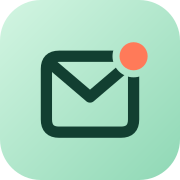
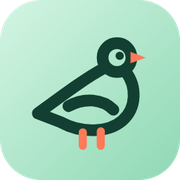
web pidgoo.com

Changed region(s): [[0.1667, 0.1944, 0.8333, 0.8333]]

diff --git a/index.html b/index.html
@@ -4,11 +4,11 @@
 <meta charset="utf-8">
 <meta name="viewport" content="width=device-width, initial-scale=1, viewport-fit=cover">
 <meta name="color-scheme" content="light dark">
-<meta property="og:title" content="mailoo">
+<meta property="og:title" content="pidgoo">
 <meta property="og:description" content="Rychlý a přehledný e-mailový klient pro Windows a Mac.">
-<meta property="og:image" content="https://mailooapp.com/img/app-light.webp">
-<title>mailoo</title>
-<meta name="description" content="mailoo – rychlý a přehledný e-mailový klient pro Windows a Mac. Data šifrovaná AES-256, žádná AI, žádné sledování.">
+<meta property="og:image" content="https://pidgoo.com/img/app-light.webp">
+<title>pidgoo</title>
+<meta name="description" content="pidgoo – rychlý a přehledný e-mailový klient pro Windows a Mac. Data šifrovaná AES-256, žádná AI, žádné sledování.">
 <link rel="icon" href="icon.svg" type="image/svg+xml">
 <link rel="apple-touch-icon" href="icon-180.png">
 <style>
@@ -188,7 +188,7 @@ footer a:hover { color: var(--ink); }
 
 <header class="nav">
   <div class="wrap">
-    <a class="logo" href="#top" aria-label="mailoo"><img src="icon.svg" alt="" width="32" height="32"><svg aria-hidden="true" style="color:var(--ink)" xmlns="http://www.w3.org/2000/svg" viewBox="0 0 295 104"><g transform="translate(2,90)"><g fill="currentColor"><path transform="translate(0.00,0) scale(0.09600,-0.09600)" d="M57.5 0V483H189V0ZM372.5 0V285Q372.5 327.25 346.25 350.75Q320 374.25 281.25 374.25Q254.75 374.25 234.0 363.625Q213.25 353 201.125 333.125Q189 313.25 189 285L137.75 310Q137.75 366.25 162.375 407.0Q187 447.75 229.0 470.375Q271 493 323.5 493Q374.25 493 415.125 470.5Q456 448 480.0 407.375Q504 366.75 504 310.25V0ZM687.5 0V285Q687.5 327.25 661.25 350.75Q635 374.25 596.25 374.25Q570.5 374.25 549.375 363.625Q528.25 353 516.125 333.125Q504 313.25 504 285L428.75 302.75Q432.5 361.25 459.625 403.625Q486.75 446 530.875 469.5Q575 493 629 493Q682.75 493 725.625 470.25Q768.5 447.5 793.75 405.75Q819 364 819 305.5V0Z"/><path transform="translate(81.73,0) scale(0.09600,-0.09600)" d="M259.5 -10Q193.5 -10 140.875 23.0Q88.25 56 57.875 112.75Q27.5 169.5 27.5 240.75Q27.5 312.75 57.875 369.625Q88.25 426.5 140.875 459.75Q193.5 493 259.5 493Q311.5 493 352.5 471.75Q393.5 450.5 418.375 413.25Q443.25 376 445 328.5V154.5Q443.25 107 418.75 69.75Q394.25 32.5 352.875 11.25Q311.5 -10 259.5 -10ZM284 111Q339 111 372.75 147.625Q406.5 184.25 406.5 241.5Q406.5 280 391.25 309.375Q376 338.75 348.5 355.375Q321 372 284.25 372Q248.25 372 220.75 355.375Q193.25 338.75 177.375 309.25Q161.5 279.75 161.5 241.5Q161.5 203.25 177.25 173.75Q193 144.25 220.625 127.625Q248.25 111 284 111ZM399.75 0V129.75L420.75 247.5L399.75 364.25V483H530V0Z"/><path transform="translate(136.68,0) scale(0.09600,-0.09600)" d="M57.5 0V483H189V0Z"/><path transform="translate(158.89,0) scale(0.09600,-0.09600)" d="M57.5 0V723H189V0Z"/><path transform="translate(181.10,0) scale(0.09600,-0.09600)" d="M284.5 -10.5Q211.75 -10.5 153.125 23.0Q94.5 56.5 60.25 114.0Q26 171.5 26 242.5Q26 313.5 60.125 370.0Q94.25 426.5 152.875 460.0Q211.5 493.5 284.25 493.5Q357.75 493.5 416.25 460.375Q474.75 427.25 509.0 370.375Q543.25 313.5 543.25 242.5Q543.25 171.5 509.125 114.0Q475 56.5 416.5 23.0Q358 -10.5 284.5 -10.5ZM284.25 112Q321.25 112 349.5 128.5Q377.75 145 393.375 174.625Q409 204.25 409 242.25Q409 280.25 392.875 309.125Q376.75 338 349.0 354.5Q321.25 371 284.25 371Q248.25 371 220.0 354.375Q191.75 337.75 176.0 308.875Q160.25 280 160.25 242Q160.25 204.25 176.0 174.625Q191.75 145 220.0 128.5Q248.25 112 284.25 112Z"/><path transform="translate(234.23,0) scale(0.09600,-0.09600)" d="M284.5 -10.5Q211.75 -10.5 153.125 23.0Q94.5 56.5 60.25 114.0Q26 171.5 26 242.5Q26 313.5 60.125 370.0Q94.25 426.5 152.875 460.0Q211.5 493.5 284.25 493.5Q357.75 493.5 416.25 460.375Q474.75 427.25 509.0 370.375Q543.25 313.5 543.25 242.5Q543.25 171.5 509.125 114.0Q475 56.5 416.5 23.0Q358 -10.5 284.5 -10.5ZM284.25 112Q321.25 112 349.5 128.5Q377.75 145 393.375 174.625Q409 204.25 409 242.25Q409 280.25 392.875 309.125Q376.75 338 349.0 354.5Q321.25 371 284.25 371Q248.25 371 220.0 354.375Q191.75 337.75 176.0 308.875Q160.25 280 160.25 242Q160.25 204.25 176.0 174.625Q191.75 145 220.0 128.5Q248.25 112 284.25 112Z"/></g><circle cx="148.51" cy="-59.50" r="7.83" fill="#FF7A59"/></g></svg></a>
+    <a class="logo" href="#top" aria-label="pidgoo"><img src="icon.svg" alt="" width="32" height="32"><svg aria-hidden="true" style="color:var(--ink)" xmlns="http://www.w3.org/2000/svg" viewBox="0 0 300 104"><g transform="translate(2,78)"><g fill="currentColor"><path transform="translate(0.00,0) scale(0.09600,-0.09600)" d="M326 -10Q273.75 -10 231.75 11.25Q189.75 32.5 164.625 69.75Q139.5 107 137.5 154.5V326Q139.5 373.5 165.0 411.375Q190.5 449.25 232.4746376811594 471.125Q274.4492753623188 493 326 493Q393 493 446.0 459.75Q499 426.5 529.5 369.625Q560 312.75 560 240.75Q560 169.5 529.5 112.75Q499 56 446.0 23.0Q393 -10 326 -10ZM57.5 -202.5V483H189V356.11547085201795L166.75 238.5L187.75 121.5V-202.5ZM303.1418269230769 111Q339.34375 111 366.921875 127.625Q394.5 144.25 410.25 173.76712328767124Q426 203.28424657534248 426 241.59246575342465Q426 280 410.25 309.375Q394.5 338.75 366.9830097087379 355.375Q339.4660194174757 372 303.4830097087379 372Q267.5 372 239.6268115942029 355.4546703296703Q211.7536231884058 338.90934065934067 196.3768115942029 309.46153846153845Q181 280.0137362637363 181 241.53296703296704Q181 203.25 196.25 173.75Q211.5 144.25 239.375 127.625Q267.25 111 303.1418269230769 111Z"/><path transform="translate(54.95,0) scale(0.09600,-0.09600)" d="M57.5 0V483H189V0Z"/><path transform="translate(77.16,0) scale(0.09600,-0.09600)" d="M261.5 -10Q194.5 -10 141.53911042944785 22.980263157894736Q88.5782208588957 55.96052631578947 58.03911042944785 112.73026315789474Q27.5 169.5 27.5 240.90853658536585Q27.5 313.0914634146341 58.0 369.79573170731703Q88.5 426.5 141.35576923076923 459.75Q194.21153846153845 493 261.5 493Q313.75 493 355.375 471.75Q397 450.5 422.625 413.25Q448.25 376 450 328.5V157Q448.25 109.5 423.0 71.625Q397.75 33.75 355.75 11.875Q313.75 -10 261.5 -10ZM284 111Q321 111 348.28952205882354 127.62332214765101Q375.5790441176471 144.24664429530202 391.03952205882354 173.623322147651Q406.5 203 406.5 241.5Q406.5 280.29009433962267 391.0923913043478 309.4492924528302Q375.6847826086956 338.60849056603774 348.3423913043478 355.3042452830189Q321 372 284.625 372Q248.25 372 220.8080985915493 355.2381516587678Q193.3661971830986 338.47630331753555 177.4330985915493 309.07582938388623Q161.5 279.67535545023696 161.5 241.5Q161.5 203.25 177.189039408867 173.78Q192.87807881773398 144.31 220.74137931034483 127.655Q248.60467980295567 111 284 111ZM530 0H399.75V129.75L420.75 247.5L398.5 364.25V723H530Z"/><path transform="translate(132.11,0) scale(0.09600,-0.09600)" d="M260.25 -214Q182.5 -214 123.75 -186.5Q65 -159 30 -109L113 -26.25Q140.5 -59.5 175.25 -76.625Q210 -93.75 259 -93.75Q319.75 -93.75 355.125 -62.875Q390.5 -32 390.5 22.5V143.5L412.75 249.5L391.75 356V483H522V24.5Q522 -47.5 488.5 -100.875Q455 -154.25 396.0 -184.125Q337 -214 260.25 -214ZM254.25 12.5Q189 12.5 137.125 44.125Q85.25 75.75 55.625 130.75Q26 185.75 26 253.5Q26 321.5 55.625 375.625Q85.25 429.75 137.125 461.375Q189 493 254.25 493Q307.75 493 349.125 472.125Q390.5 451.25 414.625 414.375Q438.75 377.5 440.5 328.5V177Q438.75 128.75 414.25 91.5Q389.75 54.25 348.375 33.375Q307 12.5 254.25 12.5ZM279.75 132.25Q315.75 132.25 342.5 147.75Q369.25 163.25 383.875 190.375Q398.5 217.5 398.5 253Q398.5 288.5 383.875 315.625Q369.25 342.75 342.625 358.25Q316 373.75 280 373.75Q244.25 373.75 217.125 358.25Q190 342.75 175.0 315.5Q160 288.25 160 253Q160 218.75 175.0 191.125Q190 163.5 217.0 147.875Q244 132.25 279.75 132.25Z"/><path transform="translate(186.19,0) scale(0.09600,-0.09600)" d="M284.5 -10.5Q211.75 -10.5 153.125 23.0Q94.5 56.5 60.25 114.0Q26 171.5 26 242.5Q26 313.5 60.125 370.0Q94.25 426.5 152.875 460.0Q211.5 493.5 284.25 493.5Q357.75 493.5 416.25 460.375Q474.75 427.25 509.0 370.375Q543.25 313.5 543.25 242.5Q543.25 171.5 509.125 114.0Q475 56.5 416.5 23.0Q358 -10.5 284.5 -10.5ZM284.25 112Q321.25 112 349.5 128.5Q377.75 145 393.375 174.625Q409 204.25 409 242.25Q409 280.25 392.875 309.125Q376.75 338 349.0 354.5Q321.25 371 284.25 371Q248.25 371 220.0 354.375Q191.75 337.75 176.0 308.875Q160.25 280 160.25 242Q160.25 204.25 176.0 174.625Q191.75 145 220.0 128.5Q248.25 112 284.25 112Z"/><path transform="translate(239.32,0) scale(0.09600,-0.09600)" d="M284.5 -10.5Q211.75 -10.5 153.125 23.0Q94.5 56.5 60.25 114.0Q26 171.5 26 242.5Q26 313.5 60.125 370.0Q94.25 426.5 152.875 460.0Q211.5 493.5 284.25 493.5Q357.75 493.5 416.25 460.375Q474.75 427.25 509.0 370.375Q543.25 313.5 543.25 242.5Q543.25 171.5 509.125 114.0Q475 56.5 416.5 23.0Q358 -10.5 284.5 -10.5ZM284.25 112Q321.25 112 349.5 128.5Q377.75 145 393.375 174.625Q409 204.25 409 242.25Q409 280.25 392.875 309.125Q376.75 338 349.0 354.5Q321.25 371 284.25 371Q248.25 371 220.0 354.375Q191.75 337.75 176.0 308.875Q160.25 280 160.25 242Q160.25 204.25 176.0 174.625Q191.75 145 220.0 128.5Q248.25 112 284.25 112Z"/></g><circle cx="66.78" cy="-59.50" r="7.83" fill="#FF7A59"/></g></svg></a>
     <nav class="nav-links" aria-label="Sekce">
       <a href="#funkce" data-i18n="nav.features">Funkce</a>
       <a href="#bezpecnost" data-i18n="nav.security">Bezpečnost</a>
@@ -226,10 +226,10 @@ footer a:hover { color: var(--ink); }
   <div class="stage">
     <div class="wrap">
       <figure class="shot" style="margin:0">
-        <img class="light" src="app-light.webp" width="1440" height="900" alt="mailoo – doručená pošta rozdělená na Důležité, Notifikace a Newslettery, vpravo otevřený e-mail s přílohami a rychlými odpověďmi" data-i18n-alt="shot.alt">
-        <img class="dark" src="app-dark.webp" width="1440" height="900" alt="mailoo v tmavém režimu" data-i18n-alt="shot.altDark">
+        <img class="light" src="app-light.webp" width="1440" height="900" alt="pidgoo – doručená pošta rozdělená na Důležité, Notifikace a Newslettery, vpravo otevřený e-mail s přílohami a rychlými odpověďmi" data-i18n-alt="shot.alt">
+        <img class="dark" src="app-dark.webp" width="1440" height="900" alt="pidgoo v tmavém režimu" data-i18n-alt="shot.altDark">
       </figure>
-      <p class="caption" data-i18n="shot.caption">Skutečný snímek mailoo 1.9 · světlý i tmavý režim podle systému</p>
+      <p class="caption" data-i18n="shot.caption">Skutečný snímek pidgoo · světlý i tmavý režim podle systému</p>
     </div>
   </div>
 
@@ -242,7 +242,7 @@ footer a:hover { color: var(--ink); }
       <div class="features">
         <article class="feat"><span class="ic"><svg viewBox="0 0 24 24" fill="none" stroke="currentColor" stroke-width="1.8" stroke-linecap="round" stroke-linejoin="round" aria-hidden="true"><path d="M22 12h-6l-2 3h-4l-2-3H2"/><path d="M5.45 5.11 2 12v6a2 2 0 0 0 2 2h16a2 2 0 0 0 2-2v-6l-3.45-6.89A2 2 0 0 0 16.76 4H7.24a2 2 0 0 0-1.79 1.11z"/></svg></span><h3 data-i18n="f1.t">Rozdělená schránka</h3><p data-i18n="f1.d">Důležité e-maily zvlášť, notifikace a newslettery ve vlastních záložkách. Nic podstatného nezapadne.</p></article>
         <article class="feat"><span class="ic"><svg viewBox="0 0 24 24" fill="none" stroke="currentColor" stroke-width="1.8" stroke-linecap="round" stroke-linejoin="round" aria-hidden="true"><path d="M13 2 3 14h9l-1 8 10-12h-9l1-8z"/></svg></span><h3 data-i18n="f2.t">Rychlé odpovědi</h3><p data-i18n-html="f2.d">Tlačítka pod e-mailem a šablony na zkratku – napište <kbd>/diky</kbd> a text se doplní sám.</p></article>
-        <article class="feat"><span class="ic"><svg viewBox="0 0 24 24" fill="none" stroke="currentColor" stroke-width="1.8" stroke-linecap="round" stroke-linejoin="round" aria-hidden="true"><path d="M6 2h12M6 22h12M7 2v4.2a4 4 0 0 0 1.4 3l3.6 2.8-3.6 2.8a4 4 0 0 0-1.4 3V22M17 2v4.2a4 4 0 0 1-1.4 3L12 12l3.6 2.8a4 4 0 0 1 1.4 3V22"/></svg></span><h3 data-i18n="f3.t">Čekám na odpověď</h3><p data-i18n="f3.d">Označte odeslanou zprávu a mailoo vám připomene, když se nikdo neozve.</p></article>
+        <article class="feat"><span class="ic"><svg viewBox="0 0 24 24" fill="none" stroke="currentColor" stroke-width="1.8" stroke-linecap="round" stroke-linejoin="round" aria-hidden="true"><path d="M6 2h12M6 22h12M7 2v4.2a4 4 0 0 0 1.4 3l3.6 2.8-3.6 2.8a4 4 0 0 0-1.4 3V22M17 2v4.2a4 4 0 0 1-1.4 3L12 12l3.6 2.8a4 4 0 0 1 1.4 3V22"/></svg></span><h3 data-i18n="f3.t">Čekám na odpověď</h3><p data-i18n="f3.d">Označte odeslanou zprávu a pidgoo vám připomene, když se nikdo neozve.</p></article>
         <article class="feat"><span class="ic"><svg viewBox="0 0 24 24" fill="none" stroke="currentColor" stroke-width="1.8" stroke-linecap="round" stroke-linejoin="round" aria-hidden="true"><circle cx="12" cy="12" r="9"/><path d="M12 7v5l3 2"/></svg></span><h3 data-i18n="f4.t">Odložit na později</h3><p data-i18n="f4.d">E-mail zmizí ze schránky a vrátí se přesně ve chvíli, kdy na něj budete mít čas.</p></article>
         <article class="feat"><span class="ic"><svg viewBox="0 0 24 24" fill="none" stroke="currentColor" stroke-width="1.8" stroke-linecap="round" stroke-linejoin="round" aria-hidden="true"><path d="m9 11 3 3L22 4"/><path d="M21 12v7a2 2 0 0 1-2 2H5a2 2 0 0 1-2-2V5a2 2 0 0 1 2-2h11"/></svg></span><h3 data-i18n="f5.t">Úkoly z e-mailů</h3><p data-i18n-html="f5.d">Z e-mailu úkol jedním stiskem <kbd>Shift</kbd>+<kbd>T</kbd>. Termín stačí napsat: „zítra v 10“, „každé pondělí“.</p></article>
         <article class="feat"><span class="ic"><svg viewBox="0 0 24 24" fill="none" stroke="currentColor" stroke-width="1.8" stroke-linecap="round" stroke-linejoin="round" aria-hidden="true"><path d="M4 22h16a2 2 0 0 0 2-2V4a2 2 0 0 0-2-2H8a2 2 0 0 0-2 2v16a2 2 0 0 1-2 2Zm0 0a2 2 0 0 1-2-2v-9c0-1.1.9-2 2-2h2"/><path d="M18 14h-8M15 18h-5M10 6h8v4h-8z"/></svg></span><h3 data-i18n="f6.t">Odhlášení jedním klikem</h3><p data-i18n="f6.d">Nechtěné newslettery zrušíte přímo z e-mailu a staré zprávy od nich rovnou smažete.</p></article>
@@ -258,17 +258,17 @@ footer a:hover { color: var(--ink); }
     <div class="wrap">
       <div class="sec-head">
         <div><span class="eyebrow" data-i18n="sec.eyebrow">Bezpečnost a soukromí</span><h2 data-i18n="sec.title">Vaše pošta zůstává vaše.</h2></div>
-        <p data-i18n="sec.lead">mailoo nemá žádný server, přes který by vaše pošta šla. Připojuje se rovnou k vašemu poštovnímu serveru a v počítači ukládá jen to nutné – zašifrované.</p>
+        <p data-i18n="sec.lead">pidgoo nemá žádný server, přes který by vaše pošta šla. Připojuje se rovnou k vašemu poštovnímu serveru a v počítači ukládá jen to nutné – zašifrované.</p>
       </div>
       <div class="sec-grid">
         <div class="promises">
-          <div class="promise"><svg viewBox="0 0 24 24" fill="none" stroke="currentColor" stroke-width="1.8" stroke-linecap="round" stroke-linejoin="round" aria-hidden="true"><circle cx="7.5" cy="15.5" r="4.5"/><path d="m10.7 12.3 9.8-9.8M16 7l3 3M19 4l2 2"/></svg><div><b data-i18n="p1.t">Heslo je klíč k datům</b><span data-i18n="p1.d">Účty, hesla, kontakty i úkoly jsou v jednom souboru šifrovaném AES-256. S heslem k mailoo je nepřečte nikdo – ani po vyjmutí disku.</span></div></div>
-          <div class="promise"><svg viewBox="0 0 24 24" fill="none" stroke="currentColor" stroke-width="1.8" stroke-linecap="round" stroke-linejoin="round" aria-hidden="true"><rect x="2" y="4" width="20" height="16" rx="2"/><path d="m22 7-10 6L2 7"/></svg><div><b data-i18n="p2.t">E-maily zůstávají na serveru</b><span data-i18n="p2.d">mailoo si poštu nestahuje do počítače. Obrázky z internetu se načtou až po vašem svolení, takže vás odesílatelé nesledují.</span></div></div>
-          <div class="promise"><svg viewBox="0 0 24 24" fill="none" stroke="currentColor" stroke-width="1.8" stroke-linecap="round" stroke-linejoin="round" aria-hidden="true"><path d="M2 12s3.5-7 10-7 10 7 10 7-3.5 7-10 7S2 12 2 12Z"/><circle cx="12" cy="12" r="3"/></svg><div><b data-i18n="p3.t">Žádná AI, žádná analytika</b><span data-i18n="p3.d">Vaše e-maily nikdo nečte, netrénuje na nich a nikam je neposílá. mailoo neodesílá ani statistiky používání.</span></div></div>
-          <div class="promise"><svg viewBox="0 0 24 24" fill="none" stroke="currentColor" stroke-width="1.8" stroke-linecap="round" stroke-linejoin="round" aria-hidden="true"><circle cx="12" cy="12" r="10"/><path d="M12 8v4M12 16h.01"/></svg><div><b data-i18n="p4.t">Škodlivé přílohy neprojdou</b><span data-i18n="p4.d">Programy a skripty převlečené za dokumenty mailoo neotevře a každá příloha dostane značku „staženo z internetu“.</span></div></div>
+          <div class="promise"><svg viewBox="0 0 24 24" fill="none" stroke="currentColor" stroke-width="1.8" stroke-linecap="round" stroke-linejoin="round" aria-hidden="true"><circle cx="7.5" cy="15.5" r="4.5"/><path d="m10.7 12.3 9.8-9.8M16 7l3 3M19 4l2 2"/></svg><div><b data-i18n="p1.t">Heslo je klíč k datům</b><span data-i18n="p1.d">Účty, hesla, kontakty i úkoly jsou v jednom souboru šifrovaném AES-256. S heslem k pidgoo je nepřečte nikdo – ani po vyjmutí disku.</span></div></div>
+          <div class="promise"><svg viewBox="0 0 24 24" fill="none" stroke="currentColor" stroke-width="1.8" stroke-linecap="round" stroke-linejoin="round" aria-hidden="true"><rect x="2" y="4" width="20" height="16" rx="2"/><path d="m22 7-10 6L2 7"/></svg><div><b data-i18n="p2.t">E-maily zůstávají na serveru</b><span data-i18n="p2.d">pidgoo si poštu nestahuje do počítače. Obrázky z internetu se načtou až po vašem svolení, takže vás odesílatelé nesledují.</span></div></div>
+          <div class="promise"><svg viewBox="0 0 24 24" fill="none" stroke="currentColor" stroke-width="1.8" stroke-linecap="round" stroke-linejoin="round" aria-hidden="true"><path d="M2 12s3.5-7 10-7 10 7 10 7-3.5 7-10 7S2 12 2 12Z"/><circle cx="12" cy="12" r="3"/></svg><div><b data-i18n="p3.t">Žádná AI, žádná analytika</b><span data-i18n="p3.d">Vaše e-maily nikdo nečte, netrénuje na nich a nikam je neposílá. pidgoo neodesílá ani statistiky používání.</span></div></div>
+          <div class="promise"><svg viewBox="0 0 24 24" fill="none" stroke="currentColor" stroke-width="1.8" stroke-linecap="round" stroke-linejoin="round" aria-hidden="true"><circle cx="12" cy="12" r="10"/><path d="M12 8v4M12 16h.01"/></svg><div><b data-i18n="p4.t">Škodlivé přílohy neprojdou</b><span data-i18n="p4.d">Programy a skripty převlečené za dokumenty pidgoo neotevře a každá příloha dostane značku „staženo z internetu“.</span></div></div>
         </div>
         <div>
-          <pre class="spec" aria-label="Technické parametry" data-i18n-html="spec"><span class="c"># mailoo-vault.json</span>
+          <pre class="spec" aria-label="Technické parametry" data-i18n-html="spec"><span class="c"># pidgoo-vault.json</span>
 <span class="k">cipher</span>      AES-256-GCM
 <span class="k">key</span>         scrypt · N=2<sup>17</sup> · 128 MB <span class="c">/ pokus</span>
 <span class="k">device</span>      <span class="d">DPAPI</span> · <span class="d">Klíčenka macOS</span>
@@ -287,17 +287,17 @@ footer a:hover { color: var(--ink); }
     <div class="wrap">
       <div class="sec-head">
         <div><span class="eyebrow" data-i18n="dl.eyebrow">Stáhnout</span><h2 data-i18n="dl.title">Nainstalované za minutu.</h2></div>
-        <p data-i18n="dl.lead">Klasický instalátor pro Windows i Mac. mailoo je zdarma, bez reklam a bez registrace – po spuštění jen přidáte svůj e-mail.</p>
+        <p data-i18n="dl.lead">Klasický instalátor pro Windows i Mac. pidgoo je zdarma, bez reklam a bez registrace – po spuštění jen přidáte svůj e-mail.</p>
       </div>
       <div class="platforms">
         <article class="plat" id="plat-win">
           <div class="plat-head"><svg viewBox="0 0 24 24" fill="none" stroke="currentColor" stroke-width="1.8" stroke-linecap="round" stroke-linejoin="round" aria-hidden="true"><rect x="2.5" y="3.5" width="19" height="13" rx="2"/><path d="M8 20.5h8M12 16.5v4"/></svg><h3>Windows</h3><span class="tag" data-i18n="dl.yours" hidden>Váš systém</span></div>
           <div class="btn-row"><a class="btn" data-file="win" href="#"><svg viewBox="0 0 24 24" fill="none" stroke="currentColor" stroke-width="1.8" stroke-linecap="round" stroke-linejoin="round" aria-hidden="true"><path d="M21 15v4a2 2 0 0 1-2 2H5a2 2 0 0 1-2-2v-4"/><path d="m7 10 5 5 5-5"/><path d="M12 15V3"/></svg><span data-i18n="dl.win">Stáhnout instalátor</span></a></div>
-          <div class="meta" id="meta-win">mailoo-setup.exe · 108 MB · Windows 10 / 11 (64 bit)</div>
+          <div class="meta" id="meta-win">pidgoo-setup.exe · 108 MB · Windows 10 / 11 (64 bit)</div>
           <ol class="steps">
-            <li data-i18n="w1">Otevřete stažený soubor mailoo-setup.exe.</li>
-            <li data-i18n="w2">Průvodce se zeptá, kam mailoo nainstalovat – stačí nechat výchozí složku.</li>
-            <li data-i18n="w3">Po dokončení mailoo najdete v nabídce Start (a volitelně na ploše).</li>
+            <li data-i18n="w1">Otevřete stažený soubor pidgoo-setup.exe.</li>
+            <li data-i18n="w2">Průvodce se zeptá, kam pidgoo nainstalovat – stačí nechat výchozí složku.</li>
+            <li data-i18n="w3">Po dokončení pidgoo najdete v nabídce Start (a volitelně na ploše).</li>
           </ol>
         </article>
         <article class="plat" id="plat-mac">
@@ -306,11 +306,11 @@ footer a:hover { color: var(--ink); }
             <a class="btn" data-file="mac-arm" href="#"><svg viewBox="0 0 24 24" fill="none" stroke="currentColor" stroke-width="1.8" stroke-linecap="round" stroke-linejoin="round" aria-hidden="true"><path d="M21 15v4a2 2 0 0 1-2 2H5a2 2 0 0 1-2-2v-4"/><path d="m7 10 5 5 5-5"/><path d="M12 15V3"/></svg><span data-i18n="dl.macArm">Apple Silicon</span></a>
             <a class="btn ghost" data-file="mac-intel" href="#"><svg viewBox="0 0 24 24" fill="none" stroke="currentColor" stroke-width="1.8" stroke-linecap="round" stroke-linejoin="round" aria-hidden="true"><path d="M21 15v4a2 2 0 0 1-2 2H5a2 2 0 0 1-2-2v-4"/><path d="m7 10 5 5 5-5"/><path d="M12 15V3"/></svg><span data-i18n="dl.macIntel">Intel</span></a>
           </div>
-          <div class="meta" id="meta-mac">mailoo.dmg · 126 MB · M1–M4 / Intel · macOS 13+</div>
+          <div class="meta" id="meta-mac">pidgoo.dmg · 126 MB · M1–M4 / Intel · macOS 13+</div>
           <ol class="steps">
-            <li data-i18n="m1">Otevřete stažený soubor mailoo.dmg.</li>
-            <li data-i18n="m2">V okně přetáhněte ikonu mailoo do složky Aplikace.</li>
-            <li data-i18n="m3">Spusťte mailoo z Launchpadu nebo ze složky Aplikace.</li>
+            <li data-i18n="m1">Otevřete stažený soubor pidgoo.dmg.</li>
+            <li data-i18n="m2">V okně přetáhněte ikonu pidgoo do složky Aplikace.</li>
+            <li data-i18n="m3">Spusťte pidgoo z Launchpadu nebo ze složky Aplikace.</li>
           </ol>
           <p class="note" data-i18n="dl.whichMac">Nevíte, jaký máte Mac? V menu Apple → O tomto Macu najdete řádek „Čip“ (Apple M…) nebo „Procesor“ (Intel).</p>
         </article>
@@ -321,7 +321,7 @@ footer a:hover { color: var(--ink); }
 
 <footer>
   <div class="wrap">
-    <a class="logo" href="#top" aria-label="mailoo"><svg aria-hidden="true" style="color:var(--ink)" xmlns="http://www.w3.org/2000/svg" viewBox="0 0 295 104"><g transform="translate(2,90)"><g fill="currentColor"><path transform="translate(0.00,0) scale(0.09600,-0.09600)" d="M57.5 0V483H189V0ZM372.5 0V285Q372.5 327.25 346.25 350.75Q320 374.25 281.25 374.25Q254.75 374.25 234.0 363.625Q213.25 353 201.125 333.125Q189 313.25 189 285L137.75 310Q137.75 366.25 162.375 407.0Q187 447.75 229.0 470.375Q271 493 323.5 493Q374.25 493 415.125 470.5Q456 448 480.0 407.375Q504 366.75 504 310.25V0ZM687.5 0V285Q687.5 327.25 661.25 350.75Q635 374.25 596.25 374.25Q570.5 374.25 549.375 363.625Q528.25 353 516.125 333.125Q504 313.25 504 285L428.75 302.75Q432.5 361.25 459.625 403.625Q486.75 446 530.875 469.5Q575 493 629 493Q682.75 493 725.625 470.25Q768.5 447.5 793.75 405.75Q819 364 819 305.5V0Z"/><path transform="translate(81.73,0) scale(0.09600,-0.09600)" d="M259.5 -10Q193.5 -10 140.875 23.0Q88.25 56 57.875 112.75Q27.5 169.5 27.5 240.75Q27.5 312.75 57.875 369.625Q88.25 426.5 140.875 459.75Q193.5 493 259.5 493Q311.5 493 352.5 471.75Q393.5 450.5 418.375 413.25Q443.25 376 445 328.5V154.5Q443.25 107 418.75 69.75Q394.25 32.5 352.875 11.25Q311.5 -10 259.5 -10ZM284 111Q339 111 372.75 147.625Q406.5 184.25 406.5 241.5Q406.5 280 391.25 309.375Q376 338.75 348.5 355.375Q321 372 284.25 372Q248.25 372 220.75 355.375Q193.25 338.75 177.375 309.25Q161.5 279.75 161.5 241.5Q161.5 203.25 177.25 173.75Q193 144.25 220.625 127.625Q248.25 111 284 111ZM399.75 0V129.75L420.75 247.5L399.75 364.25V483H530V0Z"/><path transform="translate(136.68,0) scale(0.09600,-0.09600)" d="M57.5 0V483H189V0Z"/><path transform="translate(158.89,0) scale(0.09600,-0.09600)" d="M57.5 0V723H189V0Z"/><path transform="translate(181.10,0) scale(0.09600,-0.09600)" d="M284.5 -10.5Q211.75 -10.5 153.125 23.0Q94.5 56.5 60.25 114.0Q26 171.5 26 242.5Q26 313.5 60.125 370.0Q94.25 426.5 152.875 460.0Q211.5 493.5 284.25 493.5Q357.75 493.5 416.25 460.375Q474.75 427.25 509.0 370.375Q543.25 313.5 543.25 242.5Q543.25 171.5 509.125 114.0Q475 56.5 416.5 23.0Q358 -10.5 284.5 -10.5ZM284.25 112Q321.25 112 349.5 128.5Q377.75 145 393.375 174.625Q409 204.25 409 242.25Q409 280.25 392.875 309.125Q376.75 338 349.0 354.5Q321.25 371 284.25 371Q248.25 371 220.0 354.375Q191.75 337.75 176.0 308.875Q160.25 280 160.25 242Q160.25 204.25 176.0 174.625Q191.75 145 220.0 128.5Q248.25 112 284.25 112Z"/><path transform="translate(234.23,0) scale(0.09600,-0.09600)" d="M284.5 -10.5Q211.75 -10.5 153.125 23.0Q94.5 56.5 60.25 114.0Q26 171.5 26 242.5Q26 313.5 60.125 370.0Q94.25 426.5 152.875 460.0Q211.5 493.5 284.25 493.5Q357.75 493.5 416.25 460.375Q474.75 427.25 509.0 370.375Q543.25 313.5 543.25 242.5Q543.25 171.5 509.125 114.0Q475 56.5 416.5 23.0Q358 -10.5 284.5 -10.5ZM284.25 112Q321.25 112 349.5 128.5Q377.75 145 393.375 174.625Q409 204.25 409 242.25Q409 280.25 392.875 309.125Q376.75 338 349.0 354.5Q321.25 371 284.25 371Q248.25 371 220.0 354.375Q191.75 337.75 176.0 308.875Q160.25 280 160.25 242Q160.25 204.25 176.0 174.625Q191.75 145 220.0 128.5Q248.25 112 284.25 112Z"/></g><circle cx="148.51" cy="-59.50" r="7.83" fill="#FF7A59"/></g></svg></a>
+    <a class="logo" href="#top" aria-label="pidgoo"><svg aria-hidden="true" style="color:var(--ink)" xmlns="http://www.w3.org/2000/svg" viewBox="0 0 300 104"><g transform="translate(2,78)"><g fill="currentColor"><path transform="translate(0.00,0) scale(0.09600,-0.09600)" d="M326 -10Q273.75 -10 231.75 11.25Q189.75 32.5 164.625 69.75Q139.5 107 137.5 154.5V326Q139.5 373.5 165.0 411.375Q190.5 449.25 232.4746376811594 471.125Q274.4492753623188 493 326 493Q393 493 446.0 459.75Q499 426.5 529.5 369.625Q560 312.75 560 240.75Q560 169.5 529.5 112.75Q499 56 446.0 23.0Q393 -10 326 -10ZM57.5 -202.5V483H189V356.11547085201795L166.75 238.5L187.75 121.5V-202.5ZM303.1418269230769 111Q339.34375 111 366.921875 127.625Q394.5 144.25 410.25 173.76712328767124Q426 203.28424657534248 426 241.59246575342465Q426 280 410.25 309.375Q394.5 338.75 366.9830097087379 355.375Q339.4660194174757 372 303.4830097087379 372Q267.5 372 239.6268115942029 355.4546703296703Q211.7536231884058 338.90934065934067 196.3768115942029 309.46153846153845Q181 280.0137362637363 181 241.53296703296704Q181 203.25 196.25 173.75Q211.5 144.25 239.375 127.625Q267.25 111 303.1418269230769 111Z"/><path transform="translate(54.95,0) scale(0.09600,-0.09600)" d="M57.5 0V483H189V0Z"/><path transform="translate(77.16,0) scale(0.09600,-0.09600)" d="M261.5 -10Q194.5 -10 141.53911042944785 22.980263157894736Q88.5782208588957 55.96052631578947 58.03911042944785 112.73026315789474Q27.5 169.5 27.5 240.90853658536585Q27.5 313.0914634146341 58.0 369.79573170731703Q88.5 426.5 141.35576923076923 459.75Q194.21153846153845 493 261.5 493Q313.75 493 355.375 471.75Q397 450.5 422.625 413.25Q448.25 376 450 328.5V157Q448.25 109.5 423.0 71.625Q397.75 33.75 355.75 11.875Q313.75 -10 261.5 -10ZM284 111Q321 111 348.28952205882354 127.62332214765101Q375.5790441176471 144.24664429530202 391.03952205882354 173.623322147651Q406.5 203 406.5 241.5Q406.5 280.29009433962267 391.0923913043478 309.4492924528302Q375.6847826086956 338.60849056603774 348.3423913043478 355.3042452830189Q321 372 284.625 372Q248.25 372 220.8080985915493 355.2381516587678Q193.3661971830986 338.47630331753555 177.4330985915493 309.07582938388623Q161.5 279.67535545023696 161.5 241.5Q161.5 203.25 177.189039408867 173.78Q192.87807881773398 144.31 220.74137931034483 127.655Q248.60467980295567 111 284 111ZM530 0H399.75V129.75L420.75 247.5L398.5 364.25V723H530Z"/><path transform="translate(132.11,0) scale(0.09600,-0.09600)" d="M260.25 -214Q182.5 -214 123.75 -186.5Q65 -159 30 -109L113 -26.25Q140.5 -59.5 175.25 -76.625Q210 -93.75 259 -93.75Q319.75 -93.75 355.125 -62.875Q390.5 -32 390.5 22.5V143.5L412.75 249.5L391.75 356V483H522V24.5Q522 -47.5 488.5 -100.875Q455 -154.25 396.0 -184.125Q337 -214 260.25 -214ZM254.25 12.5Q189 12.5 137.125 44.125Q85.25 75.75 55.625 130.75Q26 185.75 26 253.5Q26 321.5 55.625 375.625Q85.25 429.75 137.125 461.375Q189 493 254.25 493Q307.75 493 349.125 472.125Q390.5 451.25 414.625 414.375Q438.75 377.5 440.5 328.5V177Q438.75 128.75 414.25 91.5Q389.75 54.25 348.375 33.375Q307 12.5 254.25 12.5ZM279.75 132.25Q315.75 132.25 342.5 147.75Q369.25 163.25 383.875 190.375Q398.5 217.5 398.5 253Q398.5 288.5 383.875 315.625Q369.25 342.75 342.625 358.25Q316 373.75 280 373.75Q244.25 373.75 217.125 358.25Q190 342.75 175.0 315.5Q160 288.25 160 253Q160 218.75 175.0 191.125Q190 163.5 217.0 147.875Q244 132.25 279.75 132.25Z"/><path transform="translate(186.19,0) scale(0.09600,-0.09600)" d="M284.5 -10.5Q211.75 -10.5 153.125 23.0Q94.5 56.5 60.25 114.0Q26 171.5 26 242.5Q26 313.5 60.125 370.0Q94.25 426.5 152.875 460.0Q211.5 493.5 284.25 493.5Q357.75 493.5 416.25 460.375Q474.75 427.25 509.0 370.375Q543.25 313.5 543.25 242.5Q543.25 171.5 509.125 114.0Q475 56.5 416.5 23.0Q358 -10.5 284.5 -10.5ZM284.25 112Q321.25 112 349.5 128.5Q377.75 145 393.375 174.625Q409 204.25 409 242.25Q409 280.25 392.875 309.125Q376.75 338 349.0 354.5Q321.25 371 284.25 371Q248.25 371 220.0 354.375Q191.75 337.75 176.0 308.875Q160.25 280 160.25 242Q160.25 204.25 176.0 174.625Q191.75 145 220.0 128.5Q248.25 112 284.25 112Z"/><path transform="translate(239.32,0) scale(0.09600,-0.09600)" d="M284.5 -10.5Q211.75 -10.5 153.125 23.0Q94.5 56.5 60.25 114.0Q26 171.5 26 242.5Q26 313.5 60.125 370.0Q94.25 426.5 152.875 460.0Q211.5 493.5 284.25 493.5Q357.75 493.5 416.25 460.375Q474.75 427.25 509.0 370.375Q543.25 313.5 543.25 242.5Q543.25 171.5 509.125 114.0Q475 56.5 416.5 23.0Q358 -10.5 284.5 -10.5ZM284.25 112Q321.25 112 349.5 128.5Q377.75 145 393.375 174.625Q409 204.25 409 242.25Q409 280.25 392.875 309.125Q376.75 338 349.0 354.5Q321.25 371 284.25 371Q248.25 371 220.0 354.375Q191.75 337.75 176.0 308.875Q160.25 280 160.25 242Q160.25 204.25 176.0 174.625Q191.75 145 220.0 128.5Q248.25 112 284.25 112Z"/></g><circle cx="66.78" cy="-59.50" r="7.83" fill="#FF7A59"/></g></svg></a>
     <span>© 2026 by mistak</span>
     <div class="right">
       <a href="#funkce" data-i18n="nav.features">Funkce</a>
@@ -334,10 +334,10 @@ footer a:hover { color: var(--ink); }
 <script>
 (function () {
   // Kde leží instalátory (GitHub Releases – odkaz „latest“ vede vždy na nejnovější verzi)
-  var RELEASES = 'https://github.com/jaroslavmistoler-pixel/mailoo/releases/latest/download/';
-  var FILES = { win: 'mailoo-setup.exe', 'mac-arm': 'mailoo-applesilicon.dmg', 'mac-intel': 'mailoo-intel.dmg' };
-  var REPO_API = 'https://api.github.com/repos/jaroslavmistoler-pixel/mailoo/releases/latest';
-  var VERSION = '1.14.4';
+  var RELEASES = 'https://github.com/jaroslavmistoler-pixel/pidgoo/releases/latest/download/';
+  var FILES = { win: 'pidgoo-setup.exe', 'mac-arm': 'pidgoo-applesilicon.dmg', 'mac-intel': 'pidgoo-intel.dmg' };
+  var REPO_API = 'https://api.github.com/repos/jaroslavmistoler-pixel/pidgoo/releases/latest';
+  var VERSION = '2.0.0';
   var SIZE = { win: 108, 'mac-arm': 126, 'mac-intel': 131 }; // MB – přepíše se podle skutečného vydání
 
   var EN = {
@@ -348,14 +348,14 @@ footer a:hover { color: var(--ink); }
     'hero.title': 'Your inbox.<br><span class="nw">In control<span class="cdot">.</span></span>',
     'hero.lead': 'A fast, clear and modern email app for Windows and Mac. Security comes first – all your data stays encrypted, only on your computer.',
     'trust.aes': 'AES-256 encryption', 'trust.noai': 'No AI, no tracking',
-    'shot.alt': 'mailoo – inbox split into Important, Notifications and Newsletters, an open email with attachments and quick replies on the right',
-    'shot.altDark': 'mailoo in dark mode',
-    'shot.caption': 'Real mailoo 1.9 screenshot · light and dark mode follow your system',
+    'shot.alt': 'pidgoo – inbox split into Important, Notifications and Newsletters, an open email with attachments and quick replies on the right',
+    'shot.altDark': 'pidgoo in dark mode',
+    'shot.caption': 'Real pidgoo screenshot · light and dark mode follow your system',
     'feat.eyebrow': 'Features', 'feat.title': 'Fewer clicks, done faster.',
     'feat.lead': 'Email, calendar and contacts in one place. Most things take a single click or a shortcut.',
     'f1.t': 'Split inbox', 'f1.d': 'Important email on its own, notifications and newsletters in their own tabs. Nothing that matters gets buried.',
     'f2.t': 'Quick replies', 'f2.d': 'Buttons under each email and shortcut templates – type <kbd>/thanks</kbd> and the text fills itself in.',
-    'f3.t': 'Waiting for reply', 'f3.d': 'Mark a sent message and mailoo reminds you if nobody answers.',
+    'f3.t': 'Waiting for reply', 'f3.d': 'Mark a sent message and pidgoo reminds you if nobody answers.',
     'f4.t': 'Snooze', 'f4.d': 'An email leaves your inbox and comes back exactly when you have time for it.',
     'f5.t': 'Tasks from email', 'f5.d': 'Turn an email into a task with <kbd>Shift</kbd>+<kbd>T</kbd>. Just type the due date: “tomorrow at 10”, “every Monday”.',
     'f6.t': 'One-click unsubscribe', 'f6.d': 'Cancel unwanted newsletters right from the email and delete their old messages in one go.',
@@ -364,18 +364,18 @@ footer a:hover { color: var(--ink); }
     'f9.t': 'Keyboard first', 'f9.d': '<kbd>J</kbd>/<kbd>K</kbd> to move, <kbd>E</kbd> archive, <kbd>R</kbd> reply, <kbd>Ctrl</kbd>+<kbd>K</kbd> commands. The mouse is optional.',
     'acc.label': 'Works with', 'acc.imap': 'any IMAP / SMTP',
     'sec.eyebrow': 'Security and privacy', 'sec.title': 'Your email stays yours.',
-    'sec.lead': 'mailoo has no server your email passes through. It connects straight to your mail server and stores only what it must on your computer – encrypted.',
-    'p1.t': 'Your password is the key', 'p1.d': 'Accounts, passwords, contacts and tasks live in one AES-256 encrypted file. With a mailoo password nobody can read them – not even from a removed disk.',
-    'p2.t': 'Email stays on the server', 'p2.d': 'mailoo does not download your mail to disk. Remote images load only with your permission, so senders cannot track you.',
-    'p3.t': 'No AI, no analytics', 'p3.d': 'Nobody reads your email, trains on it or sends it anywhere. mailoo does not even send usage statistics.',
+    'sec.lead': 'pidgoo has no server your email passes through. It connects straight to your mail server and stores only what it must on your computer – encrypted.',
+    'p1.t': 'Your password is the key', 'p1.d': 'Accounts, passwords, contacts and tasks live in one AES-256 encrypted file. With a pidgoo password nobody can read them – not even from a removed disk.',
+    'p2.t': 'Email stays on the server', 'p2.d': 'pidgoo does not download your mail to disk. Remote images load only with your permission, so senders cannot track you.',
+    'p3.t': 'No AI, no analytics', 'p3.d': 'Nobody reads your email, trains on it or sends it anywhere. pidgoo does not even send usage statistics.',
     'p4.t': 'Malicious attachments stay shut', 'p4.d': 'Programs and scripts disguised as documents are never opened, and every attachment is marked as downloaded from the internet.',
-    'spec': '<span class="c"># mailoo-vault.json</span>\n<span class="k">cipher</span>      AES-256-GCM\n<span class="k">key</span>         scrypt · N=2<sup>17</sup> · 128 MB <span class="c">/ attempt</span>\n<span class="k">device</span>      <span class="d">DPAPI</span> · <span class="d">macOS Keychain</span>\n<span class="k">recovery</span>    80 bits of randomness\n<span class="c"># connections</span>\n<span class="k">tls</span>         1.2+ · verified certificate\n<span class="k">plaintext</span>   <span class="d">refused</span>\n<span class="k">oauth</span>       PKCE S256 · Google, Microsoft',
+    'spec': '<span class="c"># pidgoo-vault.json</span>\n<span class="k">cipher</span>      AES-256-GCM\n<span class="k">key</span>         scrypt · N=2<sup>17</sup> · 128 MB <span class="c">/ attempt</span>\n<span class="k">device</span>      <span class="d">DPAPI</span> · <span class="d">macOS Keychain</span>\n<span class="k">recovery</span>    80 bits of randomness\n<span class="c"># connections</span>\n<span class="k">tls</span>         1.2+ · verified certificate\n<span class="k">plaintext</span>   <span class="d">refused</span>\n<span class="k">oauth</span>       PKCE S256 · Google, Microsoft',
     'sec.note': 'The code passed an independent security audit and penetration testing. A technical document for experts ships with every release.',
     'dl.eyebrow': 'Download', 'dl.title': 'Installed in a minute.',
-    'dl.lead': 'A classic installer for Windows and Mac. mailoo is free, without ads or sign-up – after launch you just add your email.',
+    'dl.lead': 'A classic installer for Windows and Mac. pidgoo is free, without ads or sign-up – after launch you just add your email.',
     'dl.yours': 'Your system', 'dl.win': 'Download installer', 'dl.macArm': 'Apple Silicon', 'dl.macIntel': 'Intel', 
-    'w1': 'Open the downloaded mailoo-setup.exe.', 'w2': 'The wizard asks where to install mailoo – the default folder is fine.', 'w3': 'When it finishes, mailoo is in the Start menu (and optionally on the desktop).',
-    'm1': 'Open the downloaded mailoo.dmg.', 'm2': 'In the window, drag the mailoo icon onto the Applications folder.', 'm3': 'Launch mailoo from Launchpad or the Applications folder.',
+    'w1': 'Open the downloaded pidgoo-setup.exe.', 'w2': 'The wizard asks where to install pidgoo – the default folder is fine.', 'w3': 'When it finishes, pidgoo is in the Start menu (and optionally on the desktop).',
+    'm1': 'Open the downloaded pidgoo.dmg.', 'm2': 'In the window, drag the pidgoo icon onto the Applications folder.', 'm3': 'Launch pidgoo from Launchpad or the Applications folder.',
     'dl.whichMac': 'Not sure which Mac you have? Open the Apple menu → About This Mac and look for “Chip” (Apple M…) or “Processor” (Intel).'
   };
   var CS = {};
@@ -411,7 +411,7 @@ footer a:hover { color: var(--ink); }
     document.getElementById('dl-main-title').textContent = os === 'mac' ? u.mac : u.win;
     document.getElementById('dl-main-meta').textContent = u.ver + VERSION + ' · ' + (os === 'mac' ? 'Apple Silicon · ' + SIZE['mac-arm'] : u.winSys + ' · ' + SIZE.win) + ' MB';
     document.getElementById('meta-win').textContent = FILES.win + ' · ' + SIZE.win + ' MB · Windows 10 / 11 (64 bit)';
-    document.getElementById('meta-mac').textContent = 'mailoo.dmg · ' + SIZE['mac-arm'] + ' MB · M1–M4 / Intel · macOS 13+';
+    document.getElementById('meta-mac').textContent = 'pidgoo.dmg · ' + SIZE['mac-arm'] + ' MB · M1–M4 / Intel · macOS 13+';
     var alt = document.getElementById('dl-alt');
     alt.innerHTML = '';
     var add = function (text, href) { var a = document.createElement('a'); a.href = href; a.textContent = text; alt.appendChild(a); };
@@ -421,9 +421,9 @@ footer a:hover { color: var(--ink); }
     document.querySelectorAll('.lang button').forEach(function (b) { b.setAttribute('aria-pressed', String(b.dataset.lang === lang)); });
     brandDots(document.body);
   }
-  // Všude, kde je v textu „mailoo“, dostane „i“ oranžovou tečku z loga (názvy souborů a adresy se nemění).
+  // Všude, kde je v textu „pidgoo“, dostane „i“ oranžovou tečku z loga (názvy souborů a adresy se nemění).
   function brandDots(root) {
-    var re = /(^|[^\w@\/.-])mailoo(?![\w-]|\.[a-z])/g;
+    var re = /(^|[^\w@\/.-])pidgoo(?![\w-]|\.[a-z])/g;
     var walker = document.createTreeWalker(root, NodeFilter.SHOW_TEXT, { acceptNode: function (n) {
       var p = n.parentNode; if (!p || /^(SCRIPT|STYLE|TITLE|TEXTAREA)$/.test(p.nodeName) || p.closest('.mdot, .mtext, .nodot, svg')) return NodeFilter.FILTER_REJECT;
       re.lastIndex = 0; return re.test(n.nodeValue) ? NodeFilter.FILTER_ACCEPT : NodeFilter.FILTER_SKIP; } });
@@ -442,9 +442,9 @@ footer a:hover { color: var(--ink); }
       n.parentNode.replaceChild(frag, n);
     });
   }
-  function setLang(l) { lang = l; try { localStorage.setItem('mailoo-lang', l); } catch (e) { /* bez úložiště */ } render(); }
+  function setLang(l) { lang = l; try { localStorage.setItem('pidgoo-lang', l); } catch (e) { /* bez úložiště */ } render(); }
   var saved = null;
-  try { saved = localStorage.getItem('mailoo-lang'); } catch (e) { saved = null; }
+  try { saved = localStorage.getItem('pidgoo-lang'); } catch (e) { saved = null; }
   lang = saved || ((navigator.language || '').toLowerCase().indexOf('cs') === 0 || (navigator.language || '').toLowerCase().indexOf('sk') === 0 ? 'cs' : 'en');
   document.querySelectorAll('.lang button').forEach(function (b) { b.addEventListener('click', function () { setLang(b.dataset.lang); }); });
   render();
